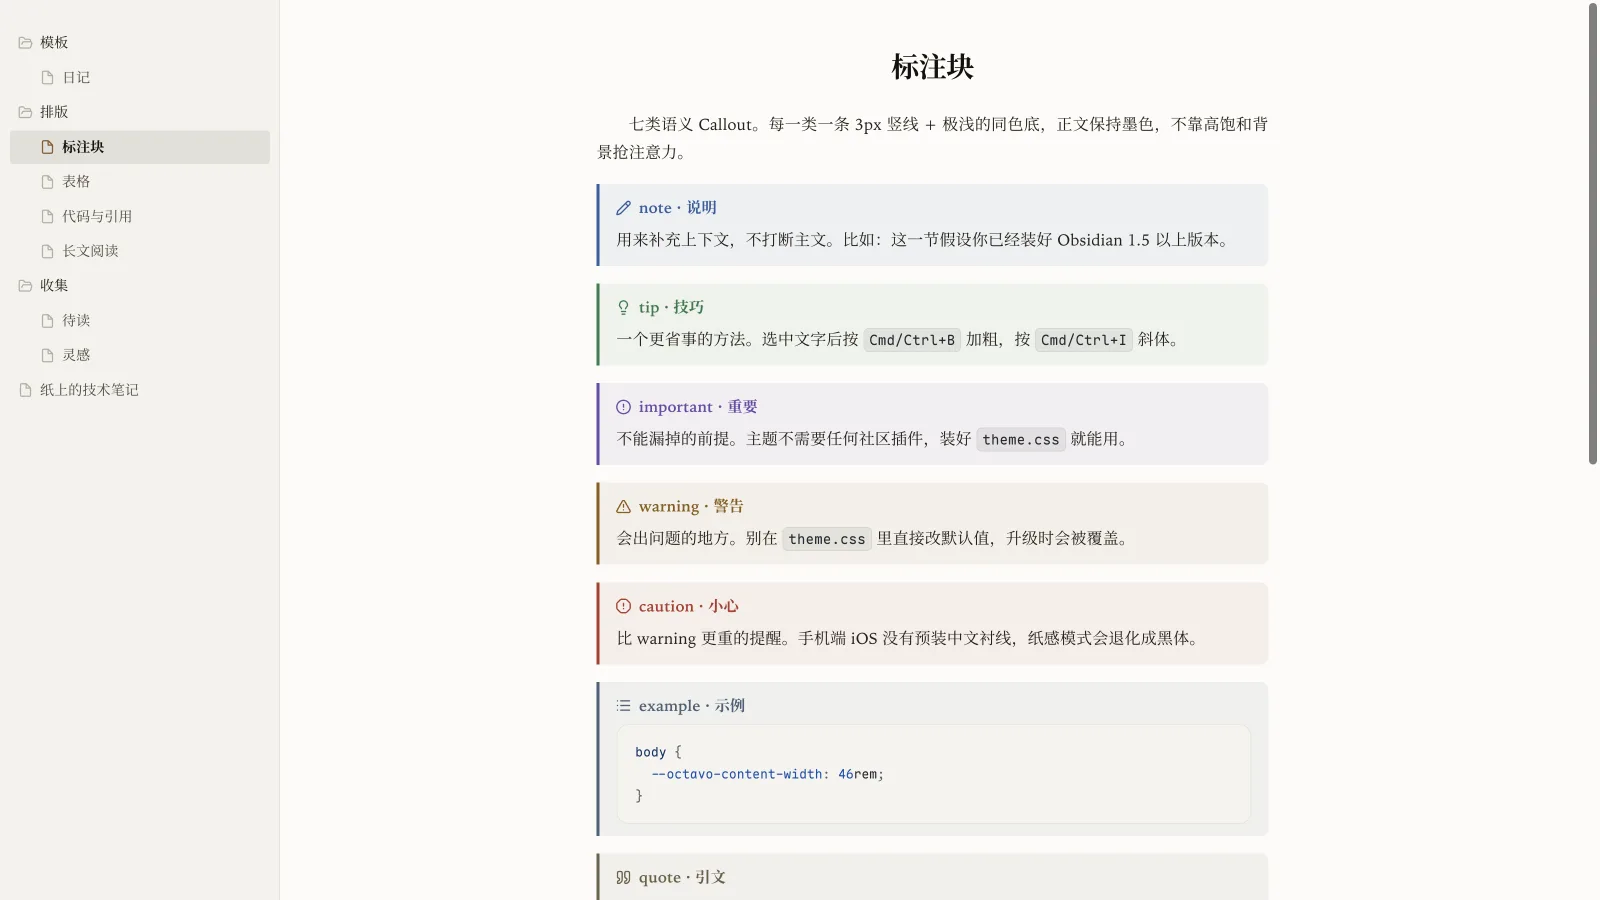
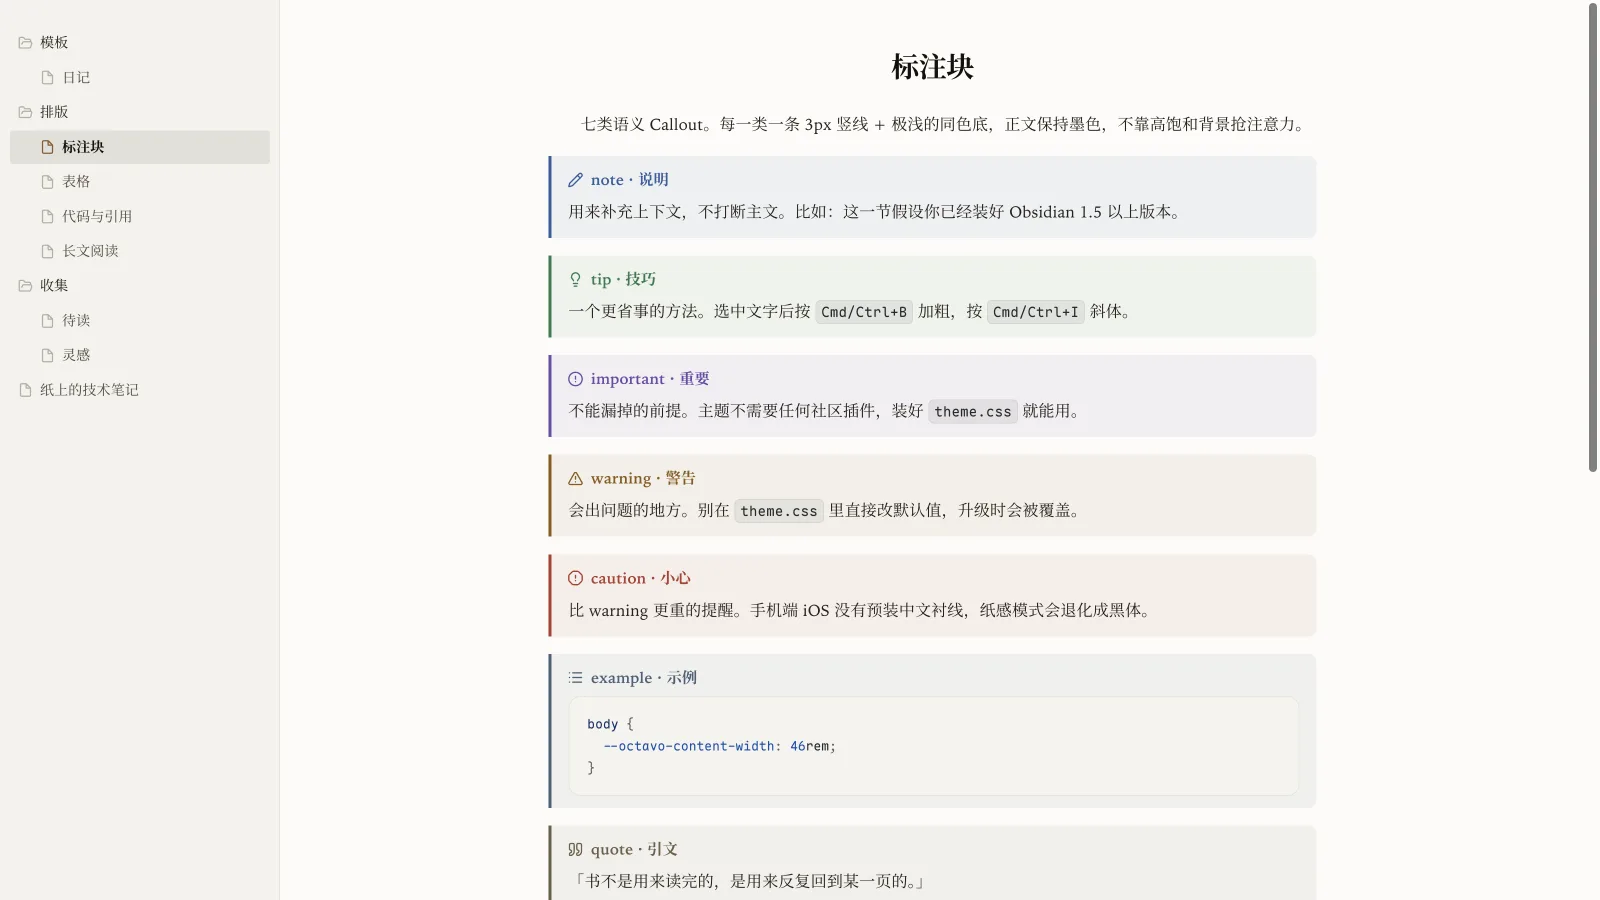
v1.0.1：正文栏宽默认 48rem，当前行高亮默认关闭

Changed region(s): [[0.3438, 0.1244, 0.8125, 0.7156], [0.3438, 0.7467, 0.5625, 0.9022], [0.3438, 0.9333, 0.5625, 1.0]]

diff --git a/theme.css b/theme.css
@@ -1,7 +1,7 @@
 /* ==========================================================================
    OCTAVO  ·  一款纸感 / 书卷气的 Obsidian 主题
    --------------------------------------------------------------------------
-   v1.0.0 · 2026-10-20
+   v1.0.1 · 2026-10-20
    默认：宋体正文 + 两端对齐 + 首行缩进 + 标题居中 + 标题分隔线 + 朱批红
          + 暖白纸面 / 墨色文字。
    可选：现代模式（Modern）—— 中性灰 + 蓝色强调色、无衬线、左对齐。
@@ -109,9 +109,9 @@ settings:
   -
     id: octavo-content-width
     title: 正文栏宽
-    description: 一行大约 30~45 个汉字最舒服
+    description: 一行大约 35~50 个汉字最舒服
     type: variable-number
-    default: 42
+    default: 48
     format: rem
   -
     id: octavo-headings
@@ -276,15 +276,9 @@ settings:
   -
     id: octavo-active-line
     title: 当前行高亮
-    description: 默认开启，给光标所在行加底色，标明当前位置
-    type: class-select
-    allowEmpty: true
-    default: none
-    options:
-      - label: 开（默认）
-        value: none
-      - label: 关
-        value: octavo-no-active-line
+    description: 默认关闭。打开后给光标所在行加底色，标明当前位置
+    type: class-toggle
+    default: false
   -
     id: octavo-hide-markdown
     title: 隐藏 Markdown 语法
@@ -349,7 +343,7 @@ body {
      想单独换色，在这里改即可 —— 不要做成单一色值，
      否则深色套的 #e0736a 也会被一起吃掉。 */
   --octavo-u-color: var(--octavo-bold-color);
-  --octavo-content-width: 42rem;
+  --octavo-content-width: 48rem;
   --octavo-heading-spacing: 1.7em;
   --octavo-table-cols: 4; /* 每行最多列数：超过它才横滚；列宽 = 容器宽 ÷ 这个数 */
   --octavo-table-cols-mobile: 3; /* 手机上（≤ 50rem 的窄屏）改用它，见 §12 */
@@ -1672,11 +1666,20 @@ body.octavo-focus-dim .markdown-source-view.mod-cm6 .cm-embed-block:has(.is-sele
   opacity: 1;
 }
 
-/* —— 当前行高亮：整行底色，铺满编辑区宽度 ——
+/* 默认关闭：清掉 Obsidian 自带的当前行底色，避免「关了还亮」。 */
+body:not(.octavo-active-line) .markdown-source-view.mod-cm6 .cm-line.cm-active,
+body:not(.octavo-active-line) .markdown-source-view.mod-cm6 .cm-line.cm-activeLine,
+body:not(.octavo-active-line) .markdown-source-view.mod-cm6 .cm-line.HyperMD-codeblock.cm-active {
+  background-color: transparent !important;
+  box-shadow: none !important;
+}
+
+/* —— 当前行高亮（可选，默认关）：整行底色，铺满编辑区宽度 ——
+   开启方式：给 body 加 octavo-active-line 类，或在 Style Settings 里打开。
    原理：一叠 box-shadow 沿水平方向平铺（每段是行宽的副本）。
    关键：每段的平移量必须 < 行宽，否则段与段之间会空出缝隙。
    原来用 50vw，屏幕一宽 50vw 就超过行宽 → 底色被断成三段。 */
-body:not(.octavo-no-active-line) .markdown-source-view.mod-cm6 .cm-line.cm-active {
+body.octavo-active-line .markdown-source-view.mod-cm6 .cm-line.cm-active {
   background-color: var(--octavo-active-line-bg);
   --octavo-al-step: calc(var(--octavo-content-width) * 0.7);
   box-shadow:
@@ -1694,7 +1697,7 @@ body:not(.octavo-no-active-line) .markdown-source-view.mod-cm6 .cm-line.cm-activ
 
 /* 代码块里的当前行：不要那条横穿整块的全宽色带，
    改用略深一档的代码底色 —— 高亮仍落在代码块内部。 */
-body:not(.octavo-no-active-line) .markdown-source-view.mod-cm6 .cm-line.HyperMD-codeblock.cm-active {
+body.octavo-active-line .markdown-source-view.mod-cm6 .cm-line.HyperMD-codeblock.cm-active {
   background-color: var(--octavo-code-line-active) !important;
   box-shadow: none !important;
 }

diff --git a/CHANGELOG.md b/CHANGELOG.md
@@ -1,5 +1,11 @@
 # Changelog
 
+## 1.0.1 · 2026-10-20
+
+- 正文栏宽默认值从 `42rem` 调整为 `48rem`
+- 当前行高亮改为默认关闭，可在 Style Settings 里打开
+- README 与截图同步新的默认值
+
 ## 1.0.0 · 2026-10-20
 
 首个公开版本，主题定名 **Octavo**。
